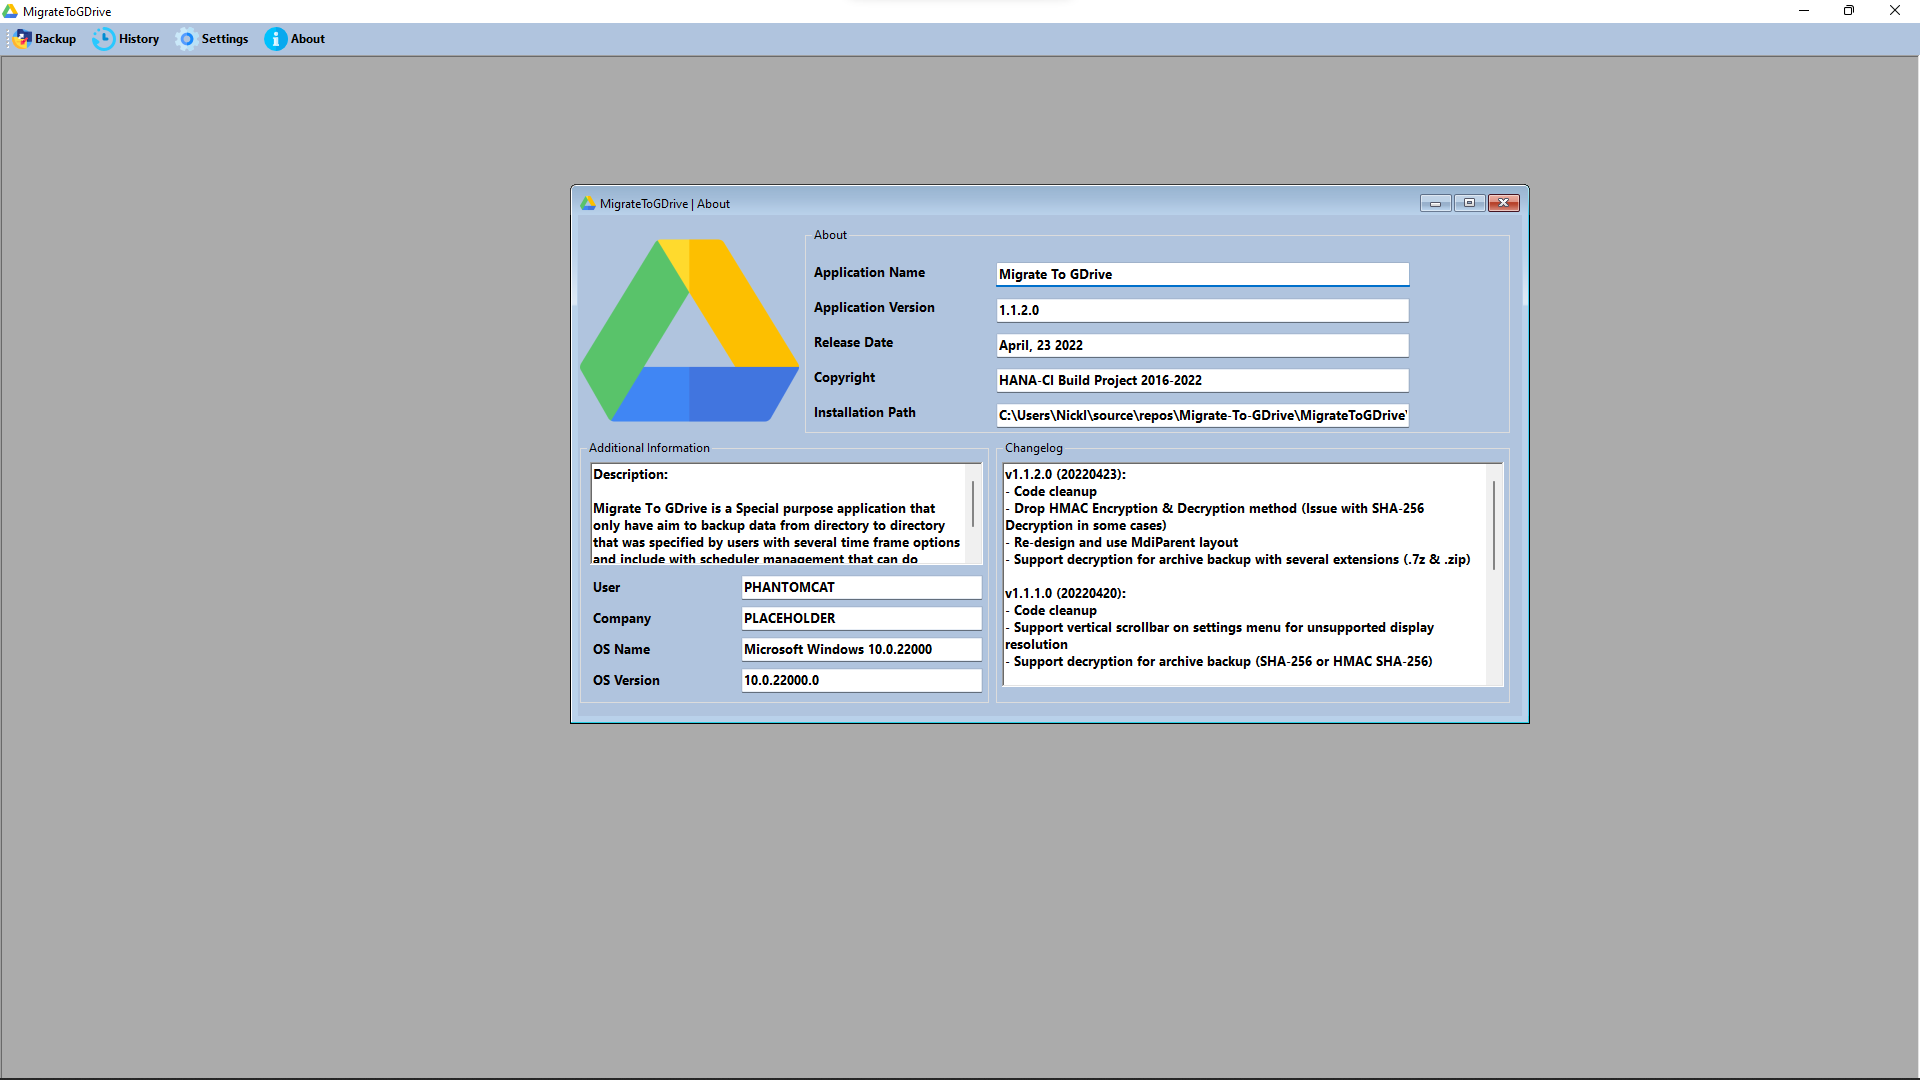
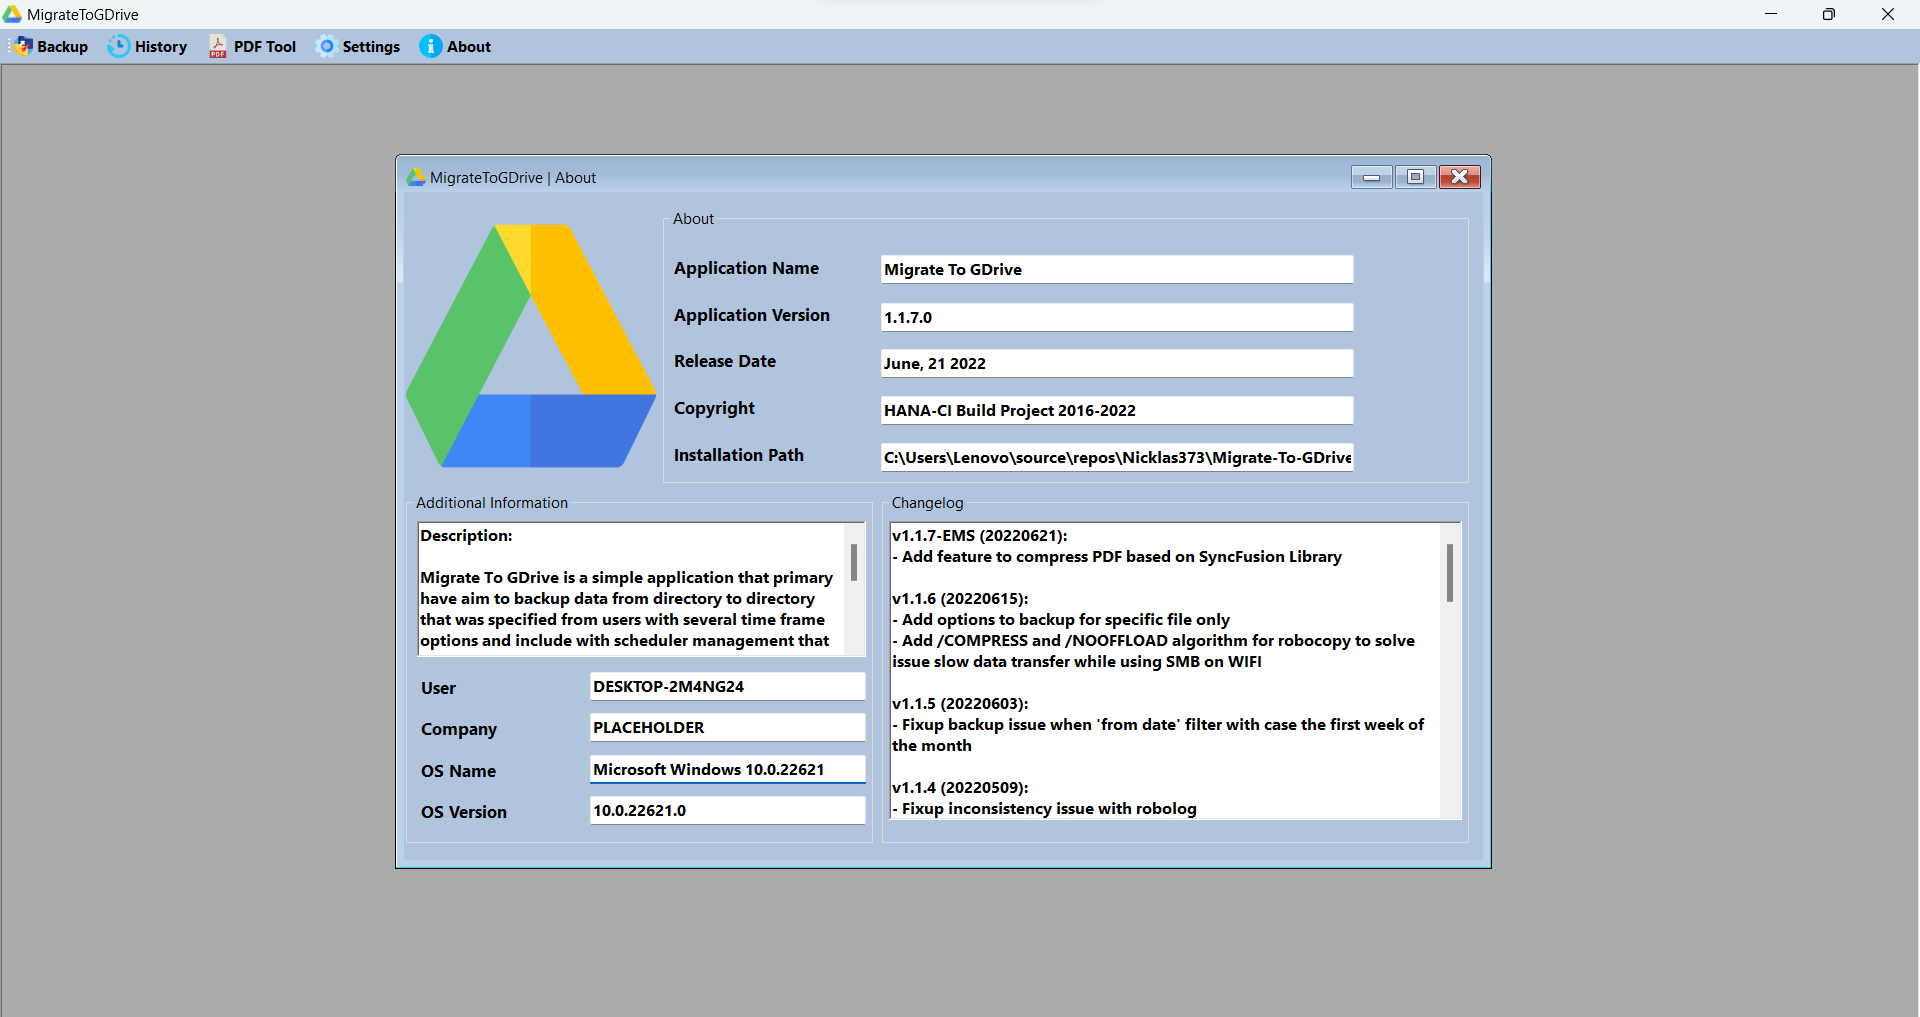
Treewide: Update documentation

diff --git a/README.md b/README.md
@@ -7,6 +7,7 @@ features like backup as archive with or without encryption for security (Only fo
 # Additional library:
 - 7-Zip
 - SHA-256 (Encryption / Decryption)
+- SyncFusion (PDF Compression)
 - Windows Task Scheduler
 
 # App Function
@@ -51,6 +52,16 @@ features like backup as archive with or without encryption for security (Only fo
   * Check Error History
   * Clear History
   * Export History
+  
+- PDF Compression
+  * Source PDF
+  * Save Location
+  * Compression Level
+  * Incremental Compression
+  * Optimize Fonts
+  * Optimize Page Contents
+  * Remove MetaData
+  * Size (Before & After compression)
 
 # App Compatibility
 - [.NET Desktop Runtime 6.0](https://dotnet.microsoft.com/en-us/download/dotnet/6.0)
@@ -63,6 +74,7 @@ features like backup as archive with or without encryption for security (Only fo
 <img width="480" height="240" src="https://github.com/Nicklas373/Migrate-To-GDrive/raw/master/MigrateToGDrive/Screenshots/Restore%20Backup%20Menu.png">&nbsp;&nbsp;&nbsp;
 <img width="480" height="240" src="https://github.com/Nicklas373/Migrate-To-GDrive/raw/master/MigrateToGDrive/Screenshots/Log%20Menu.png">&nbsp;&nbsp;&nbsp;
 <img width="480" height="240" src="https://github.com/Nicklas373/Migrate-To-GDrive/raw/master/MigrateToGDrive/Screenshots/Settings%20Menu.png">&nbsp;&nbsp;&nbsp;
+<img width="480" height="240" src="https://github.com/Nicklas373/Migrate-To-GDrive/raw/master/MigrateToGDrive/Screenshots/PDF%20Compress%20Menu.png">&nbsp;&nbsp;&nbsp;
 <img width="480" height="240" src="https://github.com/Nicklas373/Migrate-To-GDrive/raw/master/MigrateToGDrive/Screenshots/About%20Menu.png">&nbsp;&nbsp;&nbsp;
 </p>
 
@@ -77,11 +89,9 @@ features like backup as archive with or without encryption for security (Only fo
   name and logo was taken to make "familiar in case" in term of introduction to the app and function, nothing more than that.
 - And also this is only for my personal usage, if anyone want to use. Just use it at your own risk !
 
-# 7-Zip
+# Additional References
 - [7-ZIP](https://www.7-zip.org/)
-
-# 7-Zip Library
-- 7za.exe
+- [SyncFusion](https://www.syncfusion.com/)
 
 # Image Source
 - <a href="https://www.flaticon.com/free-icons/history" title="history icons">History icons created by Izwar Muis - Flaticon</a>
